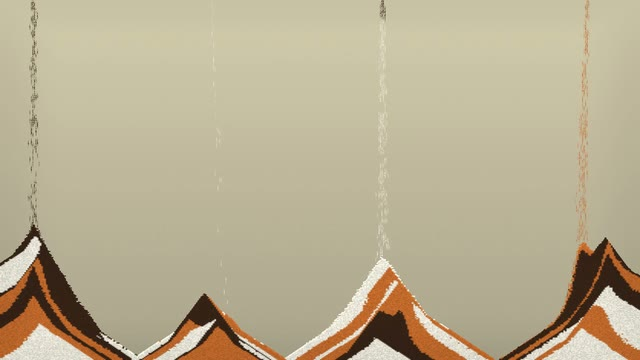
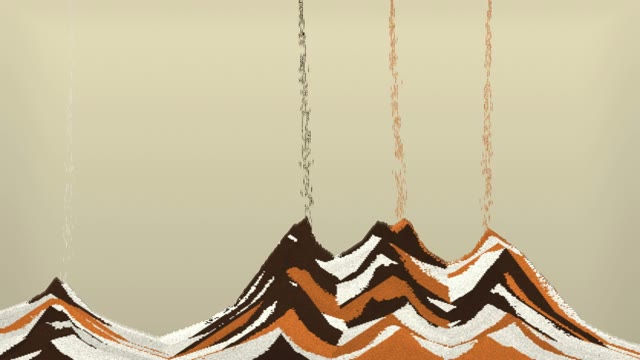
sandpicture のサムネイルを撮り直し、サムネイルに隠し要素を写さないルールを書く

diff --git a/DEVELOPMENT.md b/DEVELOPMENT.md
@@ -134,7 +134,7 @@ setupControls({
 - 新作は既存ファイル（[pipes.html](pipes.html) など）を土台にし、`<head>`、`#hud`、節の順番を揃える。
 - [index.html](index.html) の作品一覧にリンクを追加・更新する。
 - README.md の作品ごとの節（1 行の概要・操作）を更新する。
-- 新作や見た目が大きく変わったときは、README.md のサムネイル（`docs/images/<作品名>.jpg`、640×360）を撮り直し、作品ごとの節の見出しの下に載せる。ヘッドレス Chrome の `--screenshot` と `--virtual-time-budget` で撮れる。HUD は CSS で隠し、pipes は `updatePipes` を先に回してパイプを伸ばしてから撮る。
+- 新作や見た目が大きく変わったときは、README.md のサムネイル（`docs/images/<作品名>.jpg`、640×360）を撮り直し、作品ごとの節の見出しの下に載せる。ヘッドレス Chrome の `--screenshot` と `--virtual-time-budget` で撮れる。HUD は CSS で隠し、pipes は `updatePipes` を先に回してパイプを伸ばしてから撮る。隠し要素（sandpicture のラクダ、aurora のサンタなど）は写さない。README で「隠し要素」として扱うものを、サムネイルで見せてしまわないため。出るまでの待ち時間を無限大にするなど、作品の変数で出ないようにしてから撮る（`video-export.mjs` なら `--at "0:camelWait = Infinity"` のように渡す）。
 - `docs/specs/<作品名>.md` の仕様（と、コースや景色などの定義）を更新する。新作ならファイルを作る。
 - 見た目を変えたときは、`node tools/video-compare.mjs` で変更前後を並べて確認する（[docs/video.md](docs/video.md)）。
 - 見た目のための乱数を足すときは、既存の乱数を引く順番を変えない（既存の乱数を全部引いたあとに引くか、`Math.random` を使わない別の乱数にする）。`Math.random` を引く回数や順番が変わると、そのあとの乱数の列がすべてずれ、配置などが変わって、video-compare で同じ絵どうしを比べられなくなる。
